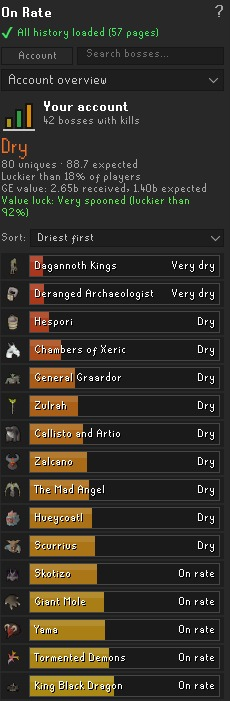
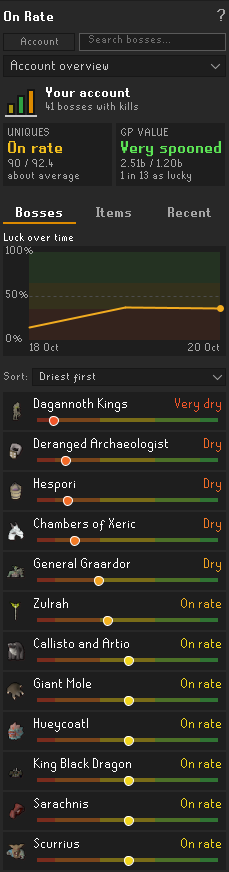
Add files via upload

diff --git a/docs/HOW-IT-WORKS.md b/docs/HOW-IT-WORKS.md
@@ -8,11 +8,12 @@ Pick a boss from the dropdown, or let the panel follow your kills. To find a bos
 
 ### Boss page
 
-- At the top: the boss, your kill count and the **verdict** in big letters: Very dry, Dry, On rate, Spooned or Very spooned. Under it, how many uniques you got against how many you should have, and how you compare with other players at the same kill count ("luckier than 70%" means 70% of them have fewer drops than you).
+- At the top: the boss and your kill count, then two **verdict tiles** side by side. **Uniques** counts how many you got against how many you should have by now; **GP value** weighs them by their GE price, so a twisted bow counts for more than a prayer scroll. Each says Very dry, Dry, On rate, Spooned or Very spooned, with the numbers and how common your result is among players at the same kill count ("1 in 3 as dry" means about 1 in 3 players has this many or fewer; "74% have none" when you have none yet). Hover a tile for the full split: how many players have fewer, as many and more than you.
+- **How the verdict is decided:** Dry when fewer than 35% of players at your kill count have this many or fewer (Very dry: under 10%); Spooned when fewer than 35% have this many or more (Very spooned: under 10%); otherwise On rate. So the most common result is never called dry: with no drops at 0.43 expected, 65% of players have none either, and that's on rate. The GP tile needs RuneLite's price list; untradeables (pets, jars, Vorkath's head) count as 0 GP.
 - Then one row per item, with **Any unique** first. The bar's fill is how many you got; the **white line** is how many you should have by now. Behind the line is dry, past it is spooned.
-- **Hover an item** for its drop rate, your chance of having it by now, your luck in plain words ("about 1 in 6 players is this dry"), your chance in the next 100 kills, how many kills give a 50% or 90% chance, and your **dry streak**: kills since your last copy and how many times the drop rate that is. If your last copy dropped before you installed On Rate, it says "at least".
-- At the bottom: **▸ History**, folded away until you click it. It lists the kills On Rate saw on this boss, newest first (the last 200 are kept, saved in RuneLite's own settings like everything else):
-  - **Most bosses:** one line per unique: the kill count, the item and how many kills it took, coloured by how that compares with the drop rate ("33 kills (0.7x)"). "1st one" is your first ever; "8+ kills" means your previous copy dropped before On Rate, so only a minimum is known. Under it: how many uniques you got in those kills against how many you should have.
+- **Hover an item** for its drop rate, your chance of having it by now, how many players have fewer, as many or more than you, for something you don't have yet how far past the drop rate you are ("2.1× the drop rate without one": players call 1× on rate, 2× dry and 3× real pain), how many kills give a 50% or 90% chance, and your **dry streak**: kills since your last copy and how many times the drop rate that is. If your last copy dropped before you installed On Rate, it says "at least".
+- At the bottom: **▸ History**, folded away until you click it. It lists the kills On Rate saw on this boss, newest first (the last 500 per boss are kept, saved in RuneLite's own settings like everything else):
+  - **Most bosses:** one line per unique: the kill count, the item and how many kills it took, coloured by how that compares with the drop rate ("33 kills (0.7x)"). "your first one" means it was your first ever; "8+ kills" means your previous copy dropped before On Rate, so only a minimum is known. Under it: how many uniques you got in those kills against how many you should have.
   - **Raids:** every raid, with its mode, your points and that raid's purple chance (or the team size and deaths for Theatre of Blood), and the purples in it. Under it: your average purple chance over the raids with points.
   - **Nex, Yama, the Hueycoatl and Corp:** every kill with the team size On Rate counted and your share.
   - **Royal Titans:** every kill with the titan you looted. **Doom of Mokhaiotl:** every delve with its level.
@@ -21,12 +22,11 @@ Pick a boss from the dropdown, or let the panel follow your kills. To find a bos
 
 What the panel opens on. It adds up every boss you have kills at. A boss with 0 kills is left out, even if some of its items are in your collection log from somewhere else (dragon thrownaxes, say):
 
-- The **verdict** at the top is your whole account.
-- **GE value** on one line: what your uniques are worth against what they should be worth by now, with its own verdict. An account that's dry on the number of drops but hit two twisted bows shows up as spooned here. Hover it for the details. Prices come from RuneLite's own price list, so On Rate makes no web requests; untradeable items like pets and jars count as 0 GP. You can hide it in the settings.
+- The two **verdict tiles** at the top are your whole account: **Uniques** (how many) and **GP value** (what they're worth). An account that's dry on the number of drops but hit two twisted bows shows up as spooned on GP value. Hover a tile for the details. Prices come from RuneLite's own price list, so On Rate makes no web requests; untradeable items like pets and jars count as 0 GP. Turn off *GE value* in the settings to keep only the Uniques tile. The tiles stay at the top on every tab.
 - Three tabs: **Bosses**, **Items** and **Recent**.
-- **Bosses** (the default tab): one row per boss with its verdict. Use **Sort** to put the most expected, driest, luckiest, most killed or alphabetical first. Click a boss to open it, or hover it to see its driest item. Bosses with almost nothing expected yet (under 0.05 uniques) aren't listed, because they say nothing about luck; they still count in your account total.
+- **Bosses** (the default tab): one row per boss with its verdict. Use **Sort** to put the most expected, driest, luckiest, most killed, longest dry streak or alphabetical first. **Longest dry streak** shows, instead of the verdict, how long since each boss's last unique in times its unique rate ("2.6×"); a "+" means the last one came before On Rate, so it's at least that. Click a boss to open it, or hover it to see its driest item. Bosses with almost nothing expected yet (under 0.05 uniques) aren't listed, because they say nothing about luck; they still count in your account total.
 - **Items:** your 10 **driest** or 10 **luckiest** items across every boss, or your **pets**: the 5 luckiest pets you have (got with the fewest kills expected) and the 5 you'd most likely have by now but don't. Driest only lists items with at least 1 expected, so rare items you've barely farmed don't fill it up. Click one to open its boss.
-- **Recent:** your 10 latest uniques across every boss: the item, the boss and kill count, when ("today", "3 days ago") and how many kills it took, coloured like on the boss pages. Click one to open its boss.
+- **Recent:** first **Today** and **Last 7 days**: your kills and uniques, in total and per boss. The number of uniques is green when it's more than you should have had from those kills, orange when it's fewer; hover a line for the expected number. On Rate keeps these counts for two weeks, so they are always complete, however many kills you do. Below that, your 10 latest uniques across every boss: the item, the boss and kill count, when ("today", "3 days ago") and how many kills it took. Click one to open its boss.
 - One grey line under the bosses says how many bosses aren't listed (hover it to see which). **Shared items** (dragon pickaxe, godsword shards, Virtus, onyx...) have no row here: you find them on the page of each boss that drops them. They do count in the account's **verdict** and **GE value** at the top, once On Rate knows the kill count of every boss that drops them.
 
 ### Other views
@@ -36,7 +36,7 @@ Prefer something else than the bars? Pick a **Luck view** in the settings:
 <img src="luck-views.png" alt="The other luck views">
 
 - **Target bars** (default): described above.
-- **Compact table:** one line per item: got / expected and a coloured luck percentage.
+- **Compact table:** one line per item: got / expected and how common that is ("1 in 3 as dry"), in its luck colour.
 - **Bars with tabs (Delve Calculator):** the classic Expected and Received tabs. On *Expected* the number is how many you should have and the bar your progress to the next one ("Any · 41.8% · 4" means 4.418 uniques by now); on *Received* the number is how many you got and the bar how lucky that is.
 - **Chance rings:** each ring fills up as your chance of having the item grows. Once you have it, the ring shows your chance of the next one by now.
 - **Luck gauge:** a speedometer from dry to spooned, with every item (or boss) as a dot on the same scale.
@@ -46,7 +46,7 @@ Prefer something else than the bars? Pick a **Luck view** in the settings:
 The trip card is on by default; the others are off. Change them in the settings under **Display**.
 
 - **Luck graph:** your account's luck over time, one point per day you play, in the account overview. On Rate saves a point every day even while the graph is hidden, so it has data when you turn it on.
-- **This trip card:** kills, uniques and expected for your current trip on the boss page, plus kills per hour and the drops you got. A trip ends when you kill another boss, after 30 minutes without a kill, or with the *Start a new trip* button.
+- **This trip card:** kills, uniques and expected for your current trip on the boss page, plus kills per hour, the drops you got and what the uniques should be worth per hour at that speed ("Unique value: ~1.2m/h expected"). That value only counts uniques, not normal loot like bones or hides. A trip ends when you kill another boss, after 30 minutes without a kill, or with the *Start a new trip* button.
 - **In-game overlay:** a small box on the game screen while you kill a boss: verdict, uniques, your driest item and the trip.
 - **Colour-blind colours:** orange to blue instead of red to green.
 
@@ -83,7 +83,7 @@ Open the settings with the cog next to **On Rate** in the Configuration panel.
 - **Count your team:** at Nex, Yama, the Hueycoatl and the Corporeal Beast, On Rate counts the players within 15 tiles of you at each kill and gives you that share of the kill: a quarter with four players, a half in a duo. The boss's page says how many kills it saw and the average team size. Kills from before count as solo, and the pet chance doesn't scale (except at Corp, where only the top damager gets loot). On by default.
 - **Use raid points:** at the end of each raid, On Rate saves your points with the completion and works out that raid's purple chance from them. On by default. How it gets the points:
   - **Chambers of Xeric:** read straight from the game when "Congratulations - your raid is complete!" appears: your points, the team's points and the team size.
-  - **Tombs of Amascut:** the game never shows your points, so On Rate estimates them the way [Raid Data Tracker](https://github.com/Raitab/raid-data-tracker) and the Tombs of Amascut plugin do: your own hits times a points factor per monster, rooms capped at 20,000 (Crondis 10,000), 64,000 in total, Wardens phase 2 stops counting once it has been downed more than three times, fixed points for puzzle rooms, 300 per player for MVP items, and minus 20% (at least 1,000) per death. The raid level is read from the game. In a team On Rate only knows your own points; if you have the **Tombs of Amascut** plugin installed, its party total is used instead. On Rate needs to see the raid start, so a raid you were already in when you turned it on uses the setting.
+  - **Tombs of Amascut:** at the end of each raid the game sends your exact points, and On Rate uses those (the same number the Tombs of Amascut plugin reads). Only if they don't come does it fall back to its own estimate, the way [Raid Data Tracker](https://github.com/Raitab/raid-data-tracker) and the Tombs of Amascut plugin do: your own hits times a points factor per monster, rooms capped at 20,000 (Crondis 10,000), 64,000 in total, Wardens phase 2 stops counting once it has been downed more than three times, fixed points for puzzle rooms, 300 per player for MVP items, and minus 20% (at least 1,000) per death. The raid level is read from the game. In a team On Rate only knows your own points; if you have the **Tombs of Amascut** plugin installed, its party total is used instead. Without the exact points On Rate needs to see the raid start, so a raid you were already in when you turned it on uses the setting.
   - **Theatre of Blood:** there are no points to read. On Rate saves the team size, your deaths and whether you were MVP from the board at the end, and splits the team purple chance from the settings over that raid's real team size.
 
   The chance is worked out with the OSRS Wiki's formulas. **CoX:** every 8,676 team points is 1% for a unique, one roll is capped at 570,000 points (65.7%) and more points roll for another unique; you get a unique with your share of the points. **ToA:** 1% per 10,500 - 20 x raid level team points (the raid level counts fully up to 310, a third from 310 to 430 and a sixth above that), capped at 55%; at low raid levels some uniques are rare: below raid level 50 for Osmumten's fang and Lightbearer, below 150 for the shadow, ward and Masori. When the chest picks one of those, you only get it 1 time in 50; otherwise you get normal loot instead.

diff --git a/CHANGELOG.md b/CHANGELOG.md
@@ -1,6 +1,46 @@
 # Changelog
 
-**Next update** (waiting for the Plugin Hub)
+**Next update**
+- **Two verdicts** at the top of every boss page and the account overview: **Uniques** (how many you got) and **GP value** (what they're worth), each with its numbers. On the account they stay at the top on every tab.
+- **Recent** starts with **Today** and **Last 7 days**: kills and uniques in total and per boss, green when you got more than expected and orange when fewer (hover for the numbers). Kills from before this update are filled in from History.
+- History says "your first one" for an item you got for the first time (was "1st one"), counts in raids for the raids and in delves for Doom, and hovering the line under it lists which uniques those were.
+- **A fairer verdict:** you're only dry when fewer than 35% of players at your kill count have this many or fewer, and only spooned when fewer than 35% have this many or more. Before, having none of an item at 0.4 to 1 expected said "Dry" even though most players have none either; that's now "On rate". Very small counts change most (one lucky drop on a trip is "Spooned", not "Very spooned"); big counts barely change.
+- **"2.1× the drop rate without one":** hovering something you don't have yet says how far past the drop rate you are, the way players count dry (1× on rate, 2× dry, 3× real pain). The "next 100 kills" line is gone.
+- **Clearer words instead of "luckier than X%":** the tiles say how common your result is ("74% have none", "1 in 3 as dry", "1 in 6 as lucky", "about average"), and hovers give the full split ("18% of players have fewer, 15% as many, 67% more").
+- The collection log line at the top only shows while pages are missing; "All history loaded" is gone.
+- Fixed: the panel could stop responding to clicks until you opened another plugin and came back. It now checks itself whether it's on screen, and one page that fails to draw can't freeze it.
+- Faster for players with many raids: saved raids are stored apart and only written when a raid ends, so a kill no longer rewrites them all, and the luck graph's point is worked out every 10 minutes instead of after every kill.
+- The overlay updates when raid points come in after the kill message.
+- New sort for the bosses list: **Longest dry streak**.
+- The trip card shows what the uniques should be worth per hour at your speed.
+- History keeps the last 500 kills per boss (was 200).
+- The bottom of the panel is one line: "Feedback? Discord" and "Reset this boss…".
+- Doom of Mokhaiotl counts in **delves**: the trip card ("Delves", "delves per hour"), the overlay, hover texts and chat messages. Barrows and Moons count in chests.
+- Fixed: the trip card's **Expected** could be off on the first raid of a trip (for example 0.06 when your points gave 4.4%), because it took off your average raid instead of the raid you just did. The trip card and Recent's **Today** now count each raid at your own points.
+- The Zulrah note explains the 1/512: two rolls of 1/1,024 per kill.
+- **Tumeken's guardian** (the Tombs of Amascut pet) is tracked, with its own formula from your points and raid level (at high levels it's well above 1/30 of the purple chance).
+- **Exact Tombs of Amascut points:** the game sends your points at the end of each raid, and On Rate now uses them instead of its own estimate.
+- **Vorkath's head:** your 50th kill always drops one, and On Rate now counts that (one more head expected from kill 50 on).
+- Pets you don't have show your chance of having one by now next to the verdict ("On rate · 12.5%").
+- The luck graph only shows on the **Bosses** tab, so the Items and Recent lists start higher up.
+- Pages with two bosses (Callisto and Artio, Vet'ion and Calvar'ion, Venenatis and Spindel, Dagannoth Kings, The Gauntlet) say which boss dropped an item and at which of its own kills, in History and Recent.
+- Boss pages are tidier: the notes at the bottom are behind one "About these numbers" line (hover it).
+- Pages with several bosses or raid modes put the counts under the name ("184 raids · 182 Normal · 2 CM", "Rex 300 · Prime 300 · Supreme 300"); hover for the full names.
+
+*A cleaner look*
+- **Colours have one job each:** green to red only means luck; orange is only for headers, tabs and links; "Any unique" is white instead of yellow; purple is only for raid loot.
+- **Lists of bosses and items** show the name with a coloured verdict on the right and a dry-to-spooned scale with a marker underneath, instead of a bar that looked like progress. Rows you can click light up when you hover them.
+- Bigger, bold verdicts in the Uniques and GP value tiles at the top of every page.
+- In Recent, hovering a boss under Today or Last 7 days names its uniques ("Tyrannical ring"); the total line names them all with their boss.
+- Bigger item and boss pictures, and names and numbers in the lists use a bigger font. In Recent, the boss names are bigger too, and clicking a boss in Today or Last 7 days opens its page.
+- Sorted by **Longest dry streak**, the streak is white while it's normal, orange when it's long and red when it's very long.
+- A small **ITEMS** header explains the white line on the item bars ("expected by now").
+- **Easier to read:** the darkest grey text is gone; hints and notes are a lighter grey with an (i) mark.
+- **Driest / Luckiest / Pets** is a switch with the selected one highlighted.
+- The same spacing everywhere, slightly tighter item rows, and every hover text has the same layout: a bold title, the numbers, and a grey footnote.
+- **No more asterisk** on raids and team bosses: "est." next to the expected number says the rates are an estimate, and the hover says why.
+
+**Update of 19 October 2026**
 
 *Easier for new players*
 - A boss whose collection log page isn't loaded yet says **Not synced** instead of "Very dry", and doesn't count in your account until it's loaded. The account overview says which bosses are waiting.

diff --git a/README.md b/README.md
@@ -5,16 +5,17 @@
 > Built on the idea of the [Delve Calculator](https://github.com/Speaax/Delve-calculator) by Speaax, which does this for Doom of Mokhaiotl. If you mainly do Doom, install it too. See [Credits](#credits).
 
 <p>
-<img src="docs/boss-page.png" width="240" alt="Boss page: Chambers of Xeric">
-<img src="docs/account-overview.png" width="230" alt="Account overview">
+<img src="docs/boss-page.png" width="239" alt="Boss page: Chambers of Xeric, with the Uniques and GP value verdicts and every item against what you should have by now">
+<img src="docs/account-overview.png" width="229" alt="Account overview: your whole account's verdicts, luck over time and every boss sorted driest first">
+<img src="docs/account-items.png" width="240" alt="Account overview, Items tab: your driest items across every boss">
 </p>
 
 ## Features
 
 - **Every boss and raid** in the Bosses and Raids tabs of the collection log, over 50 in total, including Doom of Mokhaiotl per delve level.
-- **A verdict per boss**, from *Very dry* to *Very spooned*, and how you compare with other players at the same kill count.
-- **Account overview:** all your bosses added up, your driest and luckiest items and pets, your latest drops, and **GE value luck** (a twisted bow counts for more than a pile of cheap drops).
-- **Hover any item** for its drop rate, your dry streak, your chance in the next 100 kills and your luck in plain words.
+- **Two verdicts per boss**, from *Very dry* to *Very spooned*: how many uniques you got, and what they're worth in GP. Plus how you compare with other players at the same kill count.
+- **Account overview:** all your bosses added up, your driest and luckiest items and pets, and what you killed and got today and this week.
+- **Hover any item** for its drop rate, your dry streak, how far past the drop rate you are and how many players have fewer or more.
 - **History** per boss: the kills On Rate saw and what they dropped.
 - **Uses your raid points** for each raid's purple chance, and **counts your team** at Nex, Yama, the Hueycoatl and Corp.
 - **Imports your past drops** from the collection log, then updates by itself after every kill.

diff --git a/docs/RATES.md b/docs/RATES.md
@@ -60,6 +60,8 @@ Unless a line says otherwise, rates come from the boss's page on the [Old School
 ## From other sources
 
 - **Doom of Mokhaiotl:** per-delve-level rates from the [Delve Calculator](https://github.com/Speaax/Delve-calculator) by Speaax.
+- **Tumeken's guardian (ToA pet):** the [chest page](https://oldschool.runescape.wiki/w/Chest_(Tombs_of_Amascut)) gives 1% per 350,000 − 700 × raid level points, where the level counts in full up to 400 and a third above that (at most 550), and it isn't capped at 55%. On Rate uses that formula for every raid it read your points for. Next to a purple that's about 1/33 of the chance at raid level 150, 1/31 at 300, 1/19 at 400 and 1/14 at 500. Raids without points use 1/30 of the setting's purple chance.
+- **Vorkath's head:** 1/50 per kill, and your 50th kill always drops one ([Vorkath's head](https://oldschool.runescape.wiki/w/Vorkath's_head)). From kill 50 on, On Rate counts that kill as a sure head, so one more head is expected than 1/50 alone gives. (The Kalphite Queen's tattered head, guaranteed on the 256th kill, is a different item; On Rate tracks the normal Kq head.)
 - **Raids:** unique weights from the wiki pages for [Chambers of Xeric](https://oldschool.runescape.wiki/w/Chambers_of_Xeric/Rewards), [Theatre of Blood](https://oldschool.runescape.wiki/w/Theatre_of_Blood/Rewards) and [Tombs of Amascut](https://oldschool.runescape.wiki/w/Tombs_of_Amascut/Rewards). The purple chance comes from your points (see the README) or from the settings.
 - **The Gauntlet, Dagannoth Kings, Hespori, Obor, Bryophyta:** wiki rates, not rechecked in this pass because they haven't changed in years.
 - **Vorkath, and the Alchemical Hydra's heads, jar and pet:** wiki rates. Their tables didn't load during the check, so they weren't rechecked this time.
